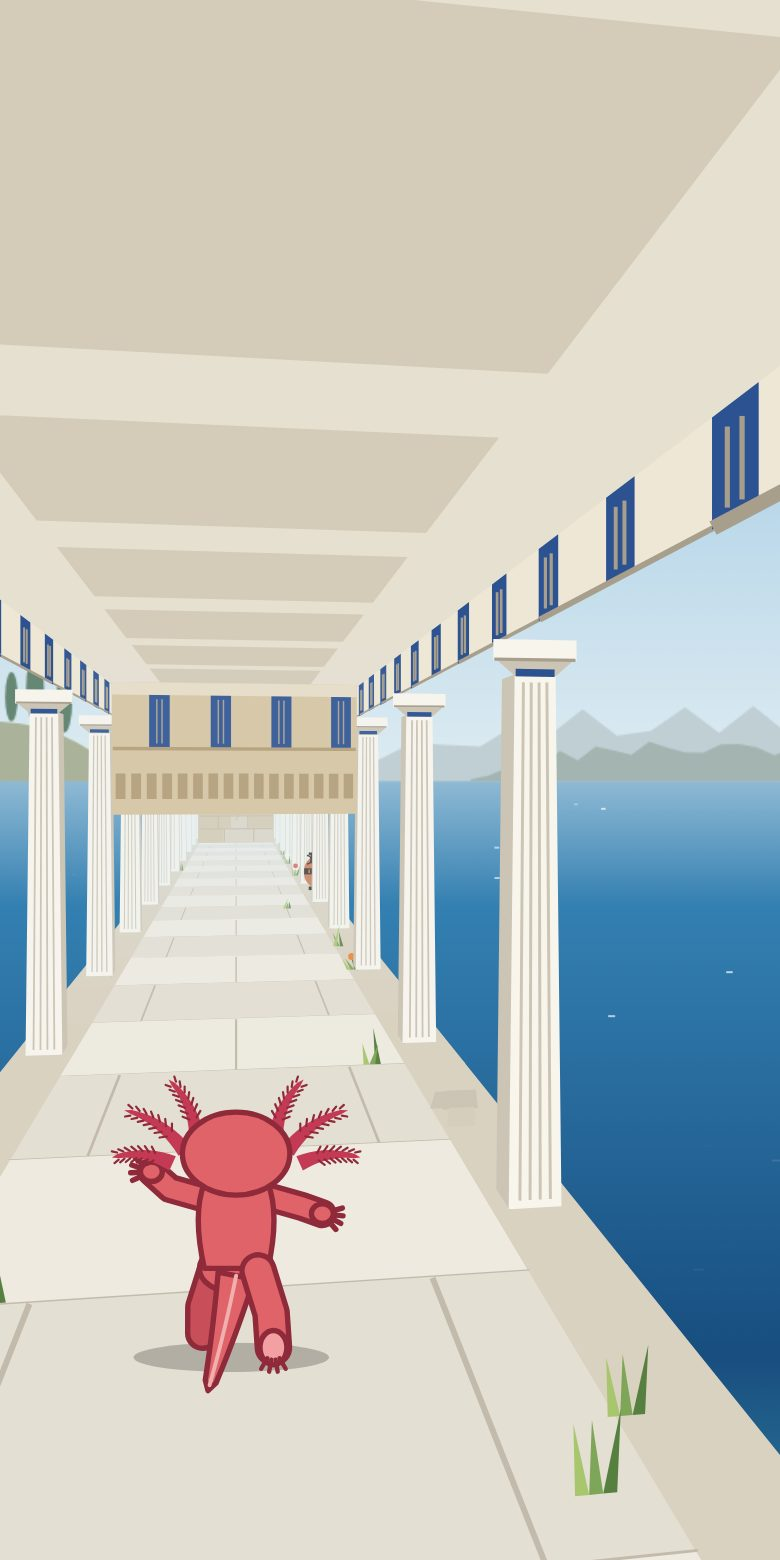
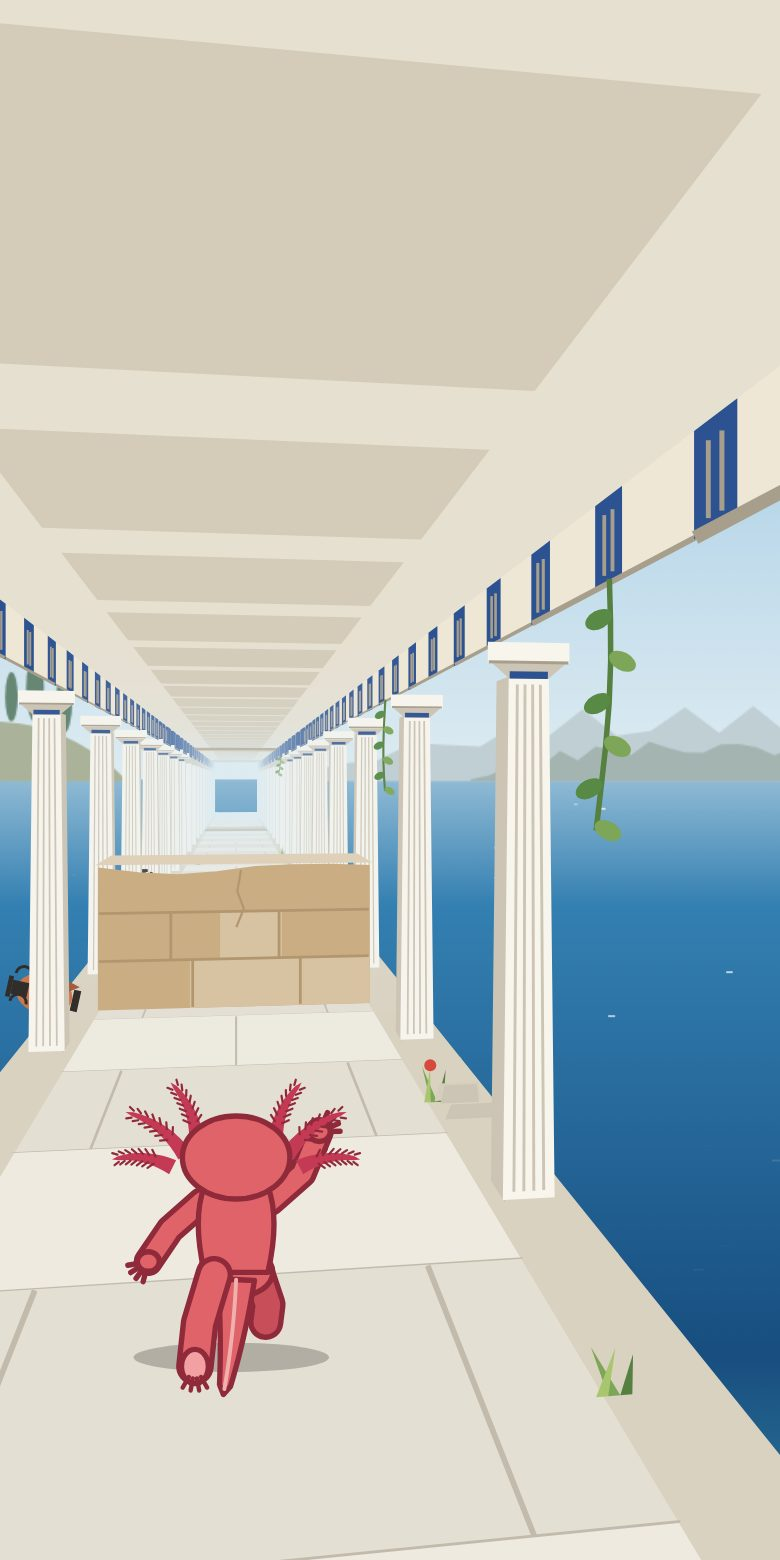
Galeria: destaques sem obstáculos desbotando na frente da câmera nem tapando a novidade

diff --git a/tools/highlight.html b/tools/highlight.html
@@ -18,12 +18,20 @@ const S = createSim();
 const find = spec.ate ? new Function('o', 'S', 'return ' + spec.ate) : null;
 // only while he runs on a surface with the camera settled: on the floor by default, either with lado 'qualquer'
 const settled = () => S.grounded && !(S.slide > 0) && (spec.lado === 'qualquer' ? [0, 1].includes(S.camT || 0) : S.grav < 0 && (S.camT || 0) === 0);
-const ok = () => S.dist >= (spec.desde || 0) && settled() && (spec.metros ? S.dist >= spec.metros : find && S.obs.some(o => find(o, S)));
+// a clean picture: nothing just passed still fading over the camera, no floor missing under him, and
+// (unless livre: false) nothing standing between him and what the shot is about
+const solid = b => (b.type === 'block' || b.type === 'portal') && !b.spent;
+const markers = ['boss', 'storm', 'demeter'];
+const clean = o => !S.obs.some(b => solid(b) && b !== o && b.z < 0.6 && b.z + b.len > -4.5)
+  && !S.obs.some(h => h.type === 'hole' && h.side === (S.grav < 0 ? -1 : 1) && h.z < 1.5 && h.z + h.len > -3)
+  && (!o || spec.livre === false || markers.includes(o.type) || !S.obs.some(b => solid(b) && b !== o && b.z > 0 && b.z < o.z));
+const ok = () => S.dist >= (spec.desde || 0) && settled()
+  && (spec.metros ? S.dist >= spec.metros && clean(null) : find && S.obs.some(o => find(o, S) && clean(o)));
 for (let i = 0; i < 60 * 600 && !ok(); i++) update(S, 1 / 60, () => {}, { live: false, autopilot: true });
 for (let i = 0; i < (spec.depois || 0); i++) update(S, 1 / 60, () => {}, { live: false, autopilot: true });
 Object.assign(S, spec.set || {});
 const ctx = c.getContext('2d'); ctx.scale(2, 2);
 drawTunnel(ctx, S, 390, 780, { quality: 'high' });
-const hit = find && S.obs.find(o => find(o, S));
+const hit = find && S.obs.find(o => find(o, S) && clean(o));
 document.title = (ok() || spec.depois ? 'ok ' : 'not found ') + Math.round(S.dist) + (hit ? ' ' + JSON.stringify({ z: +hit.z.toFixed(1), p: hit.p, side: hit.side, col: hit.col, grav: S.grav }) : '');
 </script>

diff --git a/CLAUDE.md b/CLAUDE.md
@@ -14,7 +14,7 @@ Browser endless runner (pseudo-3D tunnel), shipped as a PWA on GitHub Pages from
 - UI text is in Brazilian Portuguese.
 - Test with a local server (`python3 -m http.server`); modules do not load from `file://`.
 - Automated tests (v0.35): `npm test` (or `node --test`), Node 22+, no dependencies; `package.json` exists only for this. `tests/solver.js` is a brute-force player over the real sim (nothing / tap / swipe down every 50 ms, strict: slipping into a hole counts as failing). Tests prove every authored stretch at 12/16/21 m/s from both surfaces, random generator windows from 100 to 2000 m, every tutorial step, and the rules (hole grace, lives, golden heart). Run them after any change to sim.js, config.js, sequences.js or tutorial.js; a new obstacle or stretch must keep them green.
-- Visual history (`docs/evolucao/`, user request): a gallery page (served by Pages at /docs/evolucao/) with menu / floor / roof screenshots per milestone version, from the 0.5 greybox prototype (taken from the old Corredor artifact) on. On every release with a visible change, run `node tools/capture-versions.cjs <version>=HEAD` (Playwright; fixed random seed, same inputs for every version) and add an entry (version, date, pt-BR title and text) to `docs/evolucao/versions.json`. Not part of the game: keep these files out of `SHELL`. v0.54.1 (user could not find it from the installed app): the menu links to it under the privacy line ("Evolução do jogo"), and the gallery has a "← Voltar ao jogo" link at the top. Highlights (user: the fixed shots, always the first metres of a run, don't show what changed; since v0.53 they are all in the cave): an entry may carry `destaque` in versions.json, and `node tools/capture-highlights.cjs <version>=<commit>` copies `tools/highlight.html` into that version's files, plays its own sim with the autopilot (no collisions) from a fixed seed until `ate` (a JS expression over an obstacle `o` and the sim `S`, e.g. a toppling column 10–22 m ahead) holds while he runs on the floor (`lado: 'qualquer'` for either surface), optionally `set`s sim fields, and draws one frame (or `charon: true` shows the real page's Charon screen); writes `img/<v>-destaque.jpg`, shown first with a gold border and the `legenda` as caption. Done for 0.13, 0.26, 0.32, 0.43, 0.44, 0.46–0.50, 0.52, 0.53.2, 0.53.4, 0.54. On a release whose change is not in the first metres, add a `destaque` too. Tips learned: toppling columns fall between 15 and 30 m ahead (`fallAmount` needs `o.p` about 0.8 to look half down); the right colonnade (`col` 1) is off screen with the default camera; exclude moments with another obstacle in front or the floor missing under him.
+- Visual history (`docs/evolucao/`, user request): a gallery page (served by Pages at /docs/evolucao/) with menu / floor / roof screenshots per milestone version, from the 0.5 greybox prototype (taken from the old Corredor artifact) on. On every release with a visible change, run `node tools/capture-versions.cjs <version>=HEAD` (Playwright; fixed random seed, same inputs for every version) and add an entry (version, date, pt-BR title and text) to `docs/evolucao/versions.json`. Not part of the game: keep these files out of `SHELL`. v0.54.1 (user could not find it from the installed app): the menu links to it under the privacy line ("Evolução do jogo"), and the gallery has a "← Voltar ao jogo" link at the top. Highlights (user: the fixed shots, always the first metres of a run, don't show what changed; since v0.53 they are all in the cave): an entry may carry `destaque` in versions.json, and `node tools/capture-highlights.cjs <version>=<commit>` copies `tools/highlight.html` into that version's files, plays its own sim with the autopilot (no collisions) from a fixed seed until `ate` (a JS expression over an obstacle `o` and the sim `S`, e.g. a toppling column 10–22 m ahead) holds while he runs on the floor (`lado: 'qualquer'` for either surface), optionally `set`s sim fields, and draws one frame (or `charon: true` shows the real page's Charon screen); writes `img/<v>-destaque.jpg`, shown first with a gold border and the `legenda` as caption. Done for 0.13, 0.26, 0.32, 0.43, 0.44, 0.46–0.50, 0.52, 0.53.2, 0.53.4, 0.54. On a release whose change is not in the first metres, add a `destaque` too. Tips learned: toppling columns fall between 15 and 30 m ahead (`fallAmount` needs `o.p` about 0.8 to look half down); the right colonnade (`col` 1) is off screen with the default camera; the harness itself skips moments with an obstacle just passed (it fades over the camera and looked like a glitch in a still), the floor missing under him, or another obstacle in front of the subject (`livre: false` turns that last check off).
 - Art direction test (`prototipos/estilos/`, not part of the game, keep out of `SHELL`): the real sim and touch controls drawn with neutral shapes in the two candidate looks the user is weighing, since all current art is placeholder: A `?estilo=retro` simple 3D polygons at ~146×260 px, Bayer dithering to a 10-colour palette plus grain (rolling camera); B `?estilo=papel` 2.5D paper cut-outs (cards with a white cut edge and a drop shadow that fold up from their surface as they approach, a paper-fibre texture multiplied over everything, fixed camera, the hero turning over like a card on a flip). Which way fits depends on how the user will make the final art (2D drawings → B; 3D models → A; pixel art → either). User verdict: the current placeholder look is better than both test renders; the exploration is parked for later. If the final look is 3D, the user cannot model: Claude builds the models in Blender on the user's computer (Blender Python scripts, run there via a connection to their machine). If it is paper-like, the user draws most of the assets.
 - Code layout (v0.35): `main.js` = loop, game flow, menus and keys; `options.js` = Opções state, labels and buttons; `input.js` = touch gestures; `panels.js` = stats panel, achievements list and toast; `store.js` = localStorage wrapper; `sequences.js` = authored stretches (data).
 
